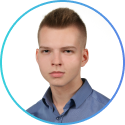
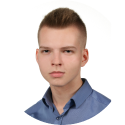
Update About page

Changed region(s): [[0.0, 0.0, 1.0, 1.0]]

diff --git a/src/pages/About.js b/src/pages/About.js
@@ -10,11 +10,16 @@ const StyledAbout = styled.section`
 		margin-bottom: 50px;
 	}
 
+	.section__subtitle {
+		margin-bottom: 50px;
+	}
+
 	.about {
 		&__dev {
 			font-weight: 500;
 			font-size: 24px;
 			margin-top: 1rem;
+			transition: 0.2s ease-in-out;
 		}
 
 		&__role {
@@ -37,10 +42,23 @@ const StyledAbout = styled.section`
 			padding: 15px;
 			transition: 0.2s ease-in-out;
 			box-shadow: 0 2px 10px rgba(50, 50, 93, 0.1);
+			outline: 2px solid transparent;
 
 			&:hover {
 				transition: 0.2s ease-in-out;
 				box-shadow: 0 9px 32px 0 rgba(0, 0, 0, 0.15);
+				outline: 2px solid #49a9e0;
+
+				.about__dev {
+					color: #49a9e0;
+					transition: 0.2s ease-in-out;
+				}
+
+				.about__avatar {
+					border: 2px solid #49a9e0;
+					border-radius: 100%;
+					transition: 0.2s ease-in-out;
+				}
 			}
 		}
 
@@ -65,6 +83,12 @@ const StyledAbout = styled.section`
 		&__icon {
 			transition: 0.2s ease-in-out;
 		}
+
+		&__avatar {
+			border: 2px solid transparent;
+			border-radius: 100%;
+			transition: 0.2s ease-in-out;
+		}
 	}
 `;
 
@@ -81,11 +105,45 @@ export default function About() {
 						<h1 className="section__title">About</h1>
 						<div className="sites__wrapper">
 							<p className="sites__desc">
-								Supported mobile devices, easy to use independently, SEO
-								friendly and ready for any expansion at any time. We create
-								websites ideally suited to the needs of both you and your
-								recipients. Check below what features they have.
+								At Pagetify, we create high-performance websites, apps, and
+								stunning graphics that deliver ultimate experiences for
+								businesses, bloggers and more. We believe that creating
+								modern-looking websites.
 							</p>
+							<p className="sites__desc">
+								We are a small and therefore very suitable team. We focus on
+								everything that your company needs - starting from creating a
+								website or store, through the development of the website.
+							</p>
+							<p className="sites__desc">
+								By working with us, you know who you are talking to and who is
+								responsible for what. We completely reject the general and
+								template approach - each order is considered by us completely
+								individually, tailored to your needs.
+							</p>
+							<p className="sites__desc">
+								This is what makes us different from the big companies - contact
+								with us is fast and efficient. We also provide support after any
+								project. Just contact us and we will try to help in every
+								situation.
+							</p>
+							<p className="sites__desc">
+								Our small team is made up of hard-working, motivated and
+								continuously learning developers that know how to deliver the
+								perfect final product.
+							</p>
+							<p className="sites__desc">
+								Web Development is our passion, and we’re passionate about
+								helping people reach their goals. So when you choose us as your
+								web developers, you won’t be disappointed — you'll get a custom
+								brief that fits your needs, and your goals.
+							</p>
+							<p className="sites__desc">
+								Want to learn more about us making our clients happy? Check out
+								our portfolio and client testimonials to hear directly from the
+								business owners who've worked with us.
+							</p>
+							<p className="section__subtitle">Our team</p>
 							<div className="about__wrapper">
 								<div className="about__box">
 									<img src={bz} alt="bart zalewski" className="about__avatar" />

diff --git a/src/components/layout/SignedIn.js b/src/components/layout/SignedIn.js
@@ -1,4 +1,4 @@
-import React, { Component } from 'react';
+import React from 'react';
 import { Route, Switch } from 'react-router-dom';
 import Home from '../../pages/Home';
 import Projects from '../../pages/Projects';
@@ -20,46 +20,45 @@ import PostDetails from '../posts/PostDetails';
 import CreateProject from '../projects/CreateProject';
 import ProjectDetails from '../projects/ProjectDetails';
 
-export default class SignedIn extends Component {
-	render() {
-		const { profile } = this.props;
-		return (
-			<>
-				<Switch>
-					<Route
-						exact
-						path="/"
-						component={props => (
-							<Home {...props} profile={this.props.profile} />
-						)}
-					/>
-					<Route path="/services" component={Websites} />
-					<Route path="/websites" component={Websites} />
-					<Route path="/stores" component={Stores} />
-					<Route path="/graphics" component={Graphics} />
-					<Route path="/projects" component={Projects} />
-					<Route path="/about" component={About} />
-					<Route path="/blog" component={BlogSite} />
-					<Route path="/contact" component={Contact} />
-					<Route path="/privacy-policy" component={PrivacyPolicy} />
-					<Route path="/price" component={Price} />
-					<Route path="/post/:id" component={PostDetails} />
-					<Route path="/project/:id" component={ProjectDetails} />
-					<Route
-						path="/admin"
-						component={props => <Admin {...props} profile={profile} />}
-					/>
-					<Route
-						path="/create-post"
-						component={props => <CreatePost {...props} profile={profile} />}
-					/>
-					<Route path="/create-project" component={CreateProject} />
-					<Route component={Error} />
-				</Switch>
-				<Blog></Blog>
-				<Requirements></Requirements>
-				<Footer></Footer>
-			</>
-		);
-	}
-}
+const SignedIn = props => {
+	const { profile } = props;
+
+	return (
+		<>
+			<Switch>
+				<Route
+					exact
+					path="/"
+					component={props => <Home {...props} profile={profile} />}
+				/>
+				<Route path="/services" component={Websites} />
+				<Route path="/websites" component={Websites} />
+				<Route path="/stores" component={Stores} />
+				<Route path="/graphics" component={Graphics} />
+				<Route path="/projects" component={Projects} />
+				<Route path="/about" component={About} />
+				<Route path="/blog" component={BlogSite} />
+				<Route path="/contact" component={Contact} />
+				<Route path="/privacy-policy" component={PrivacyPolicy} />
+				<Route path="/price" component={Price} />
+				<Route path="/post/:id" component={PostDetails} />
+				<Route path="/project/:id" component={ProjectDetails} />
+				<Route
+					path="/admin"
+					component={props => <Admin {...props} profile={profile} />}
+				/>
+				<Route
+					path="/create-post"
+					component={props => <CreatePost {...props} profile={profile} />}
+				/>
+				<Route path="/create-project" component={CreateProject} />
+				<Route component={Error} />
+			</Switch>
+			<Blog></Blog>
+			<Requirements></Requirements>
+			<Footer></Footer>
+		</>
+	);
+};
+
+export default SignedIn;

diff --git a/src/components/layout/SignedOut.js b/src/components/layout/SignedOut.js
@@ -1,4 +1,4 @@
-import React, { Component } from 'react';
+import React from 'react';
 import { Route, Switch } from 'react-router-dom';
 import Home from '../../pages/Home';
 import Projects from '../../pages/Projects';
@@ -18,31 +18,31 @@ import Login from '../../pages/Login';
 import PostDetails from '../posts/PostDetails';
 import ProjectDetails from '../projects/ProjectDetails';
 
-export default class SignedOut extends Component {
-	render() {
-		return (
-			<>
-				<Switch>
-					<Route exact path="/" component={Home} />
-					<Route path="/services" component={Websites} />
-					<Route path="/websites" component={Websites} />
-					<Route path="/stores" component={Stores} />
-					<Route path="/graphics" component={Graphics} />
-					<Route path="/projects" component={Projects} />
-					<Route path="/about" component={About} />
-					<Route path="/blog" component={BlogSite} />
-					<Route path="/contact" component={Contact} />
-					<Route path="/privacy-policy" component={PrivacyPolicy} />
-					<Route path="/price" component={Price} />
-					<Route path="/post/:id" component={PostDetails} />
-					<Route path="/project/:id" component={ProjectDetails} />
-					<Route path="/login" component={Login} />
-					<Route component={Error} />
-				</Switch>
-				<Blog></Blog>
-				<Requirements></Requirements>
-				<Footer></Footer>
-			</>
-		);
-	}
-}
+const SignedOut = () => {
+	return (
+		<>
+			<Switch>
+				<Route exact path="/" component={Home} />
+				<Route path="/services" component={Websites} />
+				<Route path="/websites" component={Websites} />
+				<Route path="/stores" component={Stores} />
+				<Route path="/graphics" component={Graphics} />
+				<Route path="/projects" component={Projects} />
+				<Route path="/about" component={About} />
+				<Route path="/blog" component={BlogSite} />
+				<Route path="/contact" component={Contact} />
+				<Route path="/privacy-policy" component={PrivacyPolicy} />
+				<Route path="/price" component={Price} />
+				<Route path="/post/:id" component={PostDetails} />
+				<Route path="/project/:id" component={ProjectDetails} />
+				<Route path="/login" component={Login} />
+				<Route component={Error} />
+			</Switch>
+			<Blog></Blog>
+			<Requirements></Requirements>
+			<Footer></Footer>
+		</>
+	);
+};
+
+export default SignedOut;

diff --git a/src/theme/globalStyle.js b/src/theme/globalStyle.js
@@ -25,7 +25,6 @@ const GlobalStyle = createGlobalStyle`
     font-family: 'Montserrat';
     color: #293347;
     overflow-x: hidden;
-    width: 100vw;
   }
 
   body::-webkit-scrollbar {
@@ -49,6 +48,11 @@ const GlobalStyle = createGlobalStyle`
     box-sizing: border-box;
     margin: 0;
     padding: 0;
+  }
+
+  ::selection {
+    background: #49A9E0;
+    color: white;
   }
 
   ul {
@@ -111,6 +115,11 @@ const GlobalStyle = createGlobalStyle`
 	.section__title {
 		font-size: 36px;
 	}
+
+  .section__subtitle {
+    font-size: 24px;
+    font-weight: 500;
+  }
 
   .navbar__services {
     position: relative;
@@ -520,6 +529,10 @@ const GlobalStyle = createGlobalStyle`
     .section__title {
       text-align: center !important;
       font-size: 24px;
+    }
+
+    .section__subtitle {
+      font-size: 20px;
     }
 
     .navbar {

diff --git a/src/components/projects/CreateProject.js b/src/components/projects/CreateProject.js
@@ -142,7 +142,7 @@ class CreatePost extends Component {
 										<label htmlFor="projectURL" />
 										<input
 											type="text"
-											placeholder="URL here..."
+											placeholder="URL here... (https://)"
 											id="projectURL"
 											onChange={this.handleChange}
 											autoComplete="off"
@@ -176,7 +176,7 @@ class CreatePost extends Component {
 										<label htmlFor="projectCategory" />
 										<input
 											type="text"
-											placeholder="Project category..."
+											placeholder="Project category... ex.(Website, Online store)"
 											id="projectCategory"
 											onChange={this.handleChange}
 											autoComplete="off"
